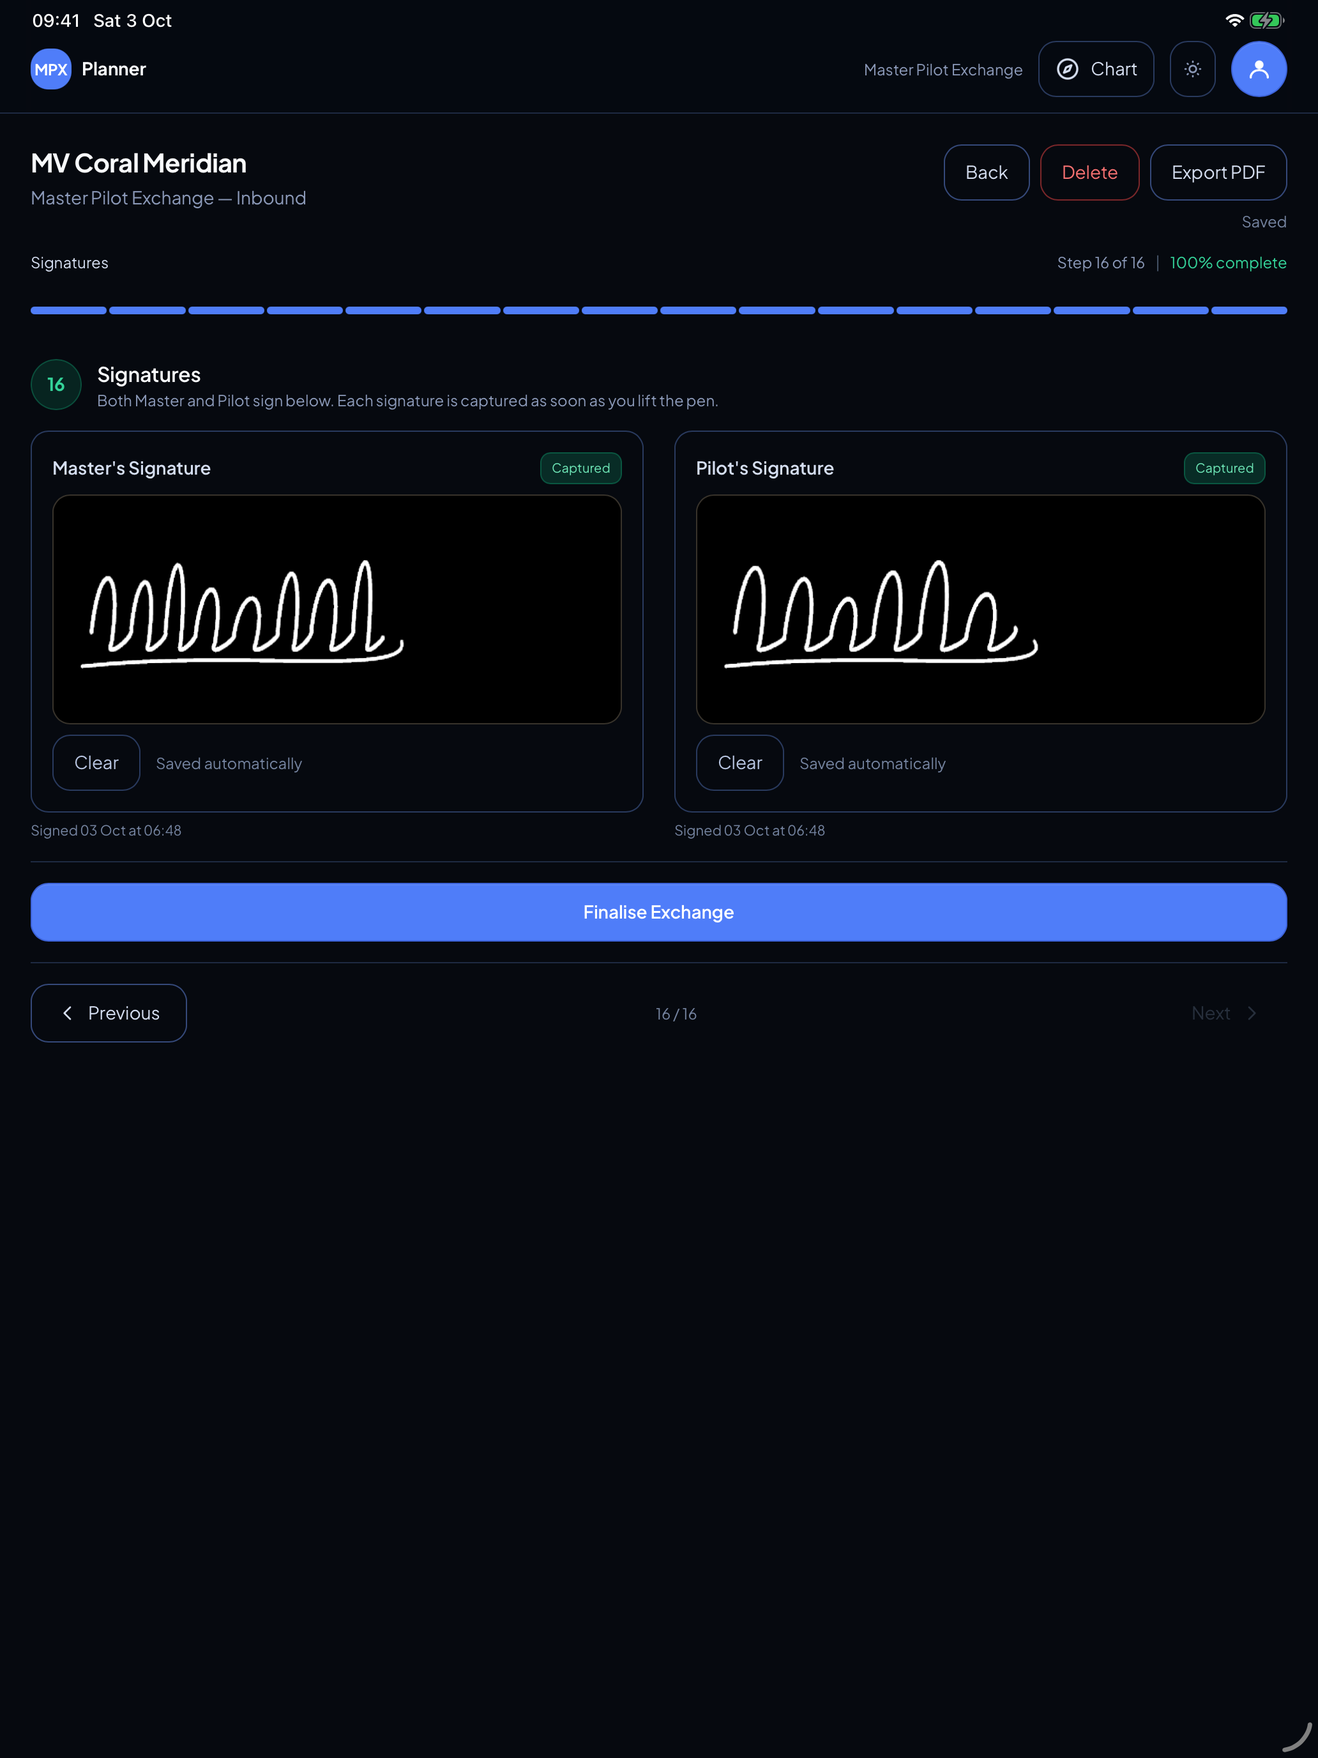
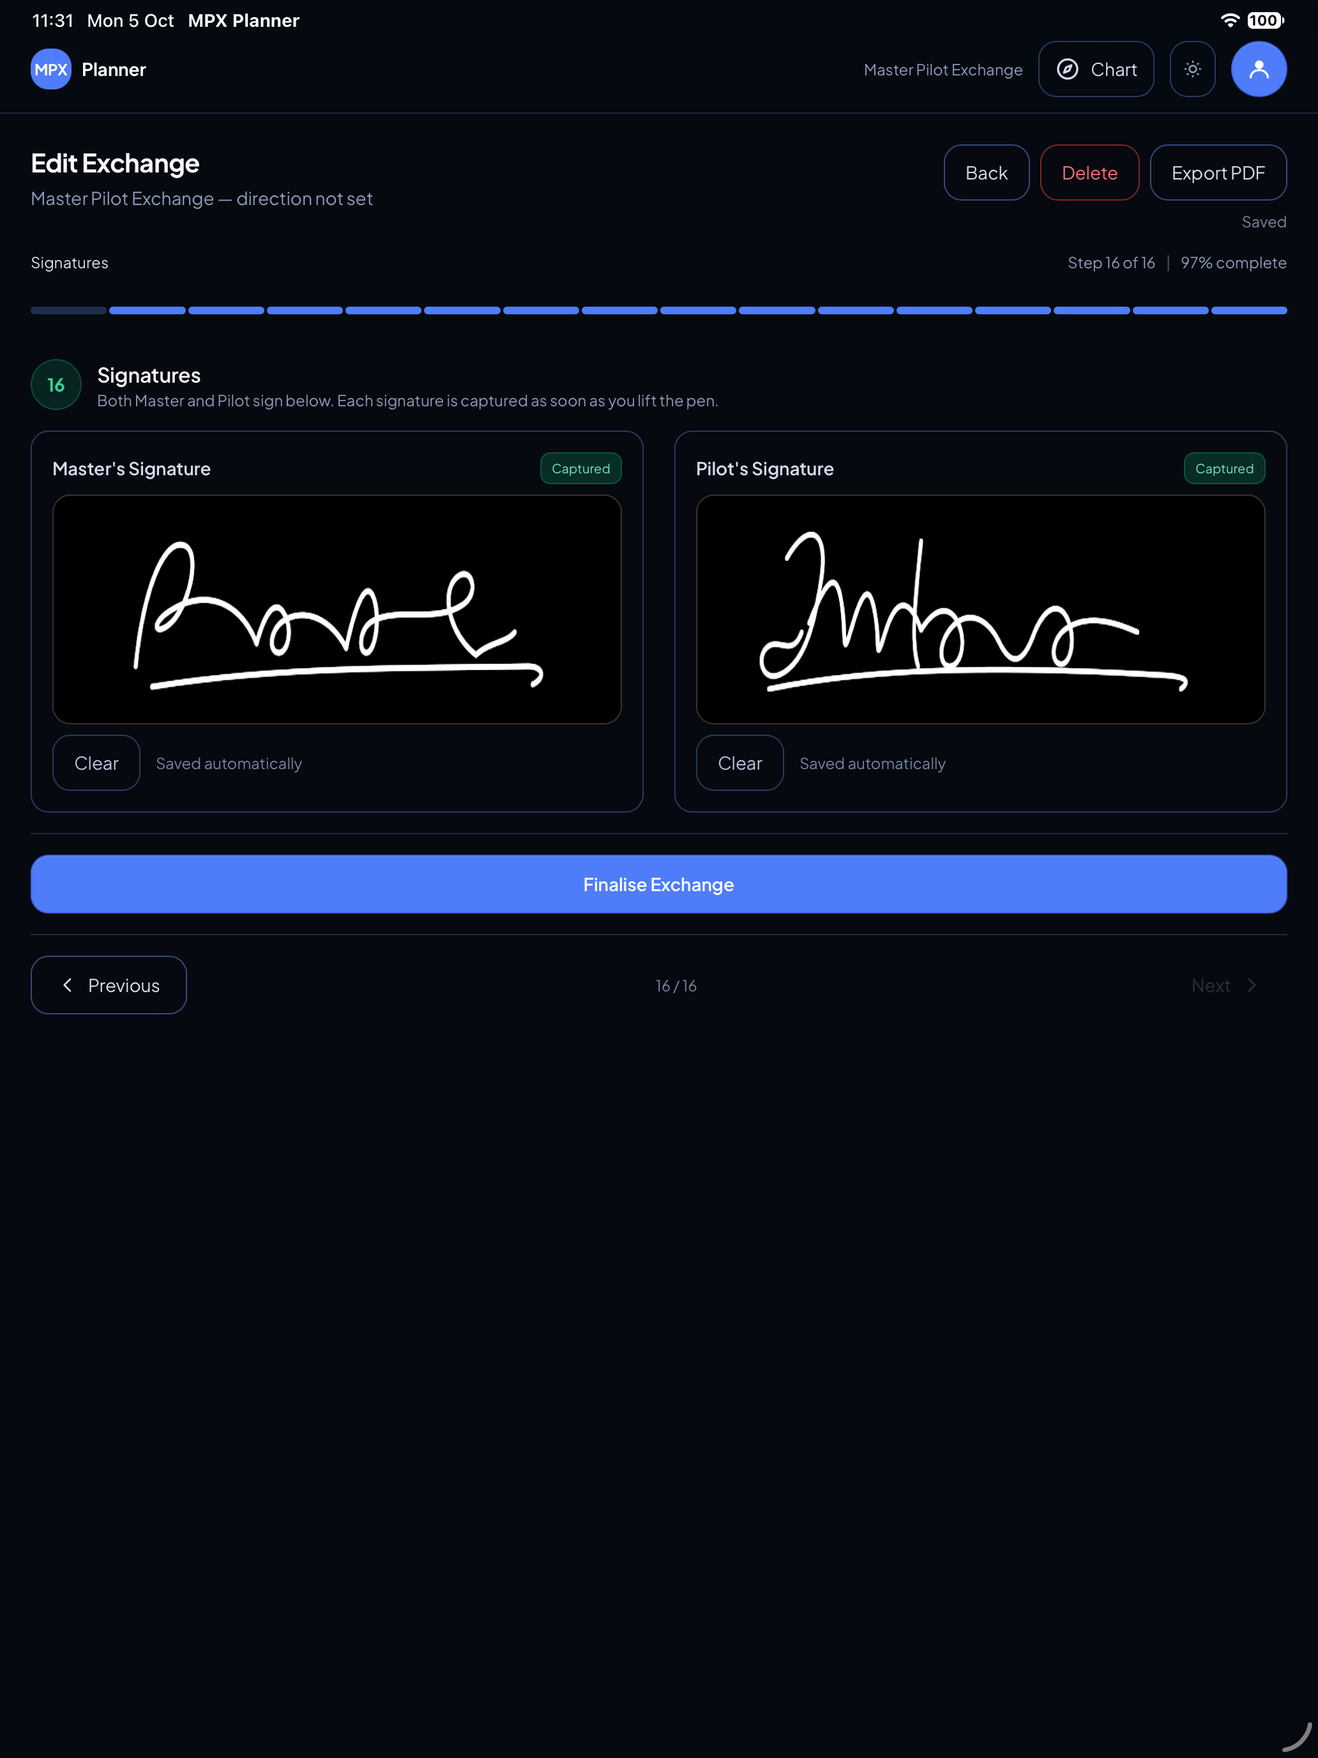
feat: refresh iOS screenshots, show PPU navigation, lead with the difference
- Refresh the five exchange gallery screenshots from a current iOS build,
  with fuller demo data and hand-signed signatures
- Add Passage simulation, Underway log and Docking view to the gallery
- Add a "What's different" section positioning EMPX as one record for the
  whole pilotage job, with a PPU and docking view on the pilot's own iPad
- Remove the pilot-ladder photo and the AI-generated bridge illustration
  from the trial section

diff --git a/dist/index.html b/dist/index.html
@@ -643,6 +643,7 @@
             <aside class="rail" aria-label="Page passage">
                 <div class="rail-inner">
                     <ol>
+                        <li><a href="#difference">What's different</a></li>
                         <li><a href="#exchange">The exchange</a></li>
                         <li><a href="#product">What's shipped</a></li>
                         <li><a href="#organisations">Your organisation</a></li>
@@ -655,6 +656,33 @@
             </aside>
 
             <div class="legs">
+                <!-- ═══════════════ WHAT'S DIFFERENT ═══════════════ -->
+                <section class="leg" id="difference" aria-labelledby="diff-title">
+                    <div class="leg-head">
+                        <h2 id="diff-title">More than an electronic MPX.</h2>
+                        <p class="prose">
+                            Pilotage is an ecosystem, not a form. Boarding, the exchange, the passage,
+                            the chart, the swing and the berth are one continuous job &mdash; so we built EMPX
+                            to carry all of it, and to keep going into the part a checklist app hands off:
+                            the navigation. On the same iPad, EMPX is your pilot portable unit.
+                        </p>
+                    </div>
+                    <div class="yours">
+                        <div>
+                            <h3>One job, one record</h3>
+                            <p>Exchange, passage plan, under-keel clearance, chart and underway log are facets of a single record, not four apps stitched together. What you planned is what you pilot, and what you sign.</p>
+                        </div>
+                        <div>
+                            <h3>A PPU on the iPad in your hand</h3>
+                            <p>Own-ship drawn to scale with a curved predictor, heading, rate of turn, course and speed, cross-track and distance to go &mdash; the pilot portable unit, on the tablet you already carry aboard.</p>
+                        </div>
+                        <div>
+                            <h3>Docking you can trust</h3>
+                            <p>Bow and stern speeds alongside the berth, and every reading says where it came from: measured with a sensor, or clearly marked an estimate. Never a guess dressed up as a fix.</p>
+                        </div>
+                    </div>
+                </section>
+
                 <!-- ═══════════════ THE EXCHANGE ═══════════════ -->
                 <section class="leg" id="exchange" aria-labelledby="exchange-title">
                     <div class="leg-head">
@@ -692,6 +720,18 @@
                             <button class="tab" type="button" role="tab" id="t-sign" aria-controls="p-sign" aria-selected="false" tabindex="-1">
                                 <span class="tab-title">Signed on the glass</span>
                                 <span class="tab-cap">Master and pilot, on the record</span>
+                            </button>
+                            <button class="tab" type="button" role="tab" id="t-sim" aria-controls="p-sim" aria-selected="false" tabindex="-1">
+                                <span class="tab-title">Passage simulation</span>
+                                <span class="tab-cap">The plan, the tugs and the tide, played through</span>
+                            </button>
+                            <button class="tab" type="button" role="tab" id="t-way" aria-controls="p-way" aria-selected="false" tabindex="-1">
+                                <span class="tab-title">Underway log</span>
+                                <span class="tab-cap">The passage logged as it happens</span>
+                            </button>
+                            <button class="tab" type="button" role="tab" id="t-dock" aria-controls="p-dock" aria-selected="false" tabindex="-1">
+                                <span class="tab-title">Docking view</span>
+                                <span class="tab-cap">Bow and stern speeds alongside</span>
                             </button>
                         </div>
 
@@ -743,6 +783,36 @@
                                 </picture></div>
                                 <div class="panel-text">
                                     <p>Master and pilot sign with a finger or Apple Pencil, and the pilot finalises the record once both have signed.</p>
+                                    <p class="demo-note"><span><b>Source</b>iOS build on iPad</span><span><b>Data</b>Demo; vessel, people and organisation are fictional</span></p>
+                                </div>
+                            </div>
+                            <div role="tabpanel" id="p-sim" aria-labelledby="t-sim" tabindex="0" hidden>
+                                <div class="device"><picture>
+                                    <source type="image/webp" srcset="images/ios/passage-sim.webp">
+                                    <img src="images/ios/passage-sim.jpg" width="1100" height="1467" loading="lazy" alt="Passage simulation playing through the Cairns Inbound route, with both tugs on station at the berth and a scrub bar showing time and speed">
+                                </picture></div>
+                                <div class="panel-text">
+                                    <p>Play the passage through before you run it. The ship steams the plan, your tugs take their stations on cue, and the wind and tide are shown as they'll be at the time &mdash; a briefing you can watch, not just read.</p>
+                                    <p class="demo-note"><span><b>Source</b>iOS build on iPad</span><span><b>Data</b>Demo; vessel, people and organisation are fictional</span></p>
+                                </div>
+                            </div>
+                            <div role="tabpanel" id="p-way" aria-labelledby="t-way" tabindex="0" hidden>
+                                <div class="device"><picture>
+                                    <source type="image/webp" srcset="images/ios/underway.webp">
+                                    <img src="images/ios/underway.jpg" width="1100" height="1467" loading="lazy" alt="Underway logbook recording the passage, with key times and events timed and stamped with the position they happened at">
+                                </picture></div>
+                                <div class="panel-text">
+                                    <p>The passage as it happens: position against the plan, and events timed and stamped where they occurred. Moments like the exchange log themselves, and a time correction is marked as amended rather than silently rewritten.</p>
+                                    <p class="demo-note"><span><b>Source</b>iOS build on iPad</span><span><b>Data</b>Demo; vessel, people and organisation are fictional</span></p>
+                                </div>
+                            </div>
+                            <div role="tabpanel" id="p-dock" aria-labelledby="t-dock" tabindex="0" hidden>
+                                <div class="device"><picture>
+                                    <source type="image/webp" srcset="images/ios/docking.webp">
+                                    <img src="images/ios/docking.jpg" width="1100" height="1467" loading="lazy" alt="Docking view on the chart showing bow and stern lateral speeds and the fore-and-aft speed alongside the berth">
+                                </picture></div>
+                                <div class="panel-text">
+                                    <p>Alongside, the bow and stern speeds and the speed ahead, read straight off the chart. Measured with a heading sensor, or clearly marked as estimates when the ship has none &mdash; never a guess passed off as a reading.</p>
                                     <p class="demo-note"><span><b>Source</b>iOS build on iPad</span><span><b>Data</b>Demo; vessel, people and organisation are fictional</span></p>
                                 </div>
                             </div>
@@ -867,23 +937,6 @@
                             providers both. Small on purpose: every trial is set up by hand, and we'd rather support a
                             handful properly than a hundred badly.
                         </p>
-                    </div>
-
-                    <div class="photos">
-                        <figure class="photo">
-                            <picture>
-                                <source type="image/webp" srcset="images/photos/pilot-ladder.webp">
-                                <img src="images/photos/pilot-ladder.jpg" width="696" height="396" loading="lazy" alt="A marine pilot climbing the pilot ladder from the launch up the side of a ship">
-                            </picture>
-                            <figcaption class="demo-note"><span><b>Boarding</b>From the launch, by pilot ladder</span></figcaption>
-                        </figure>
-                        <figure class="photo">
-                            <picture>
-                                <source type="image/webp" srcset="images/photos/bridge-night.webp">
-                                <img src="images/photos/bridge-night.jpg" width="1408" height="768" loading="lazy" alt="Illustration of a darkened ship's bridge at night, with radar, a tablet and a paper chart on the console">
-                            </picture>
-                            <figcaption class="demo-note"><span><b>Bridge at night</b>Illustration, AI-generated; the tablet screen is not the EMPX interface</span></figcaption>
-                        </figure>
                     </div>
 
                     <ol class="steps">

diff --git a/index.html b/index.html
@@ -643,6 +643,7 @@
             <aside class="rail" aria-label="Page passage">
                 <div class="rail-inner">
                     <ol>
+                        <li><a href="#difference">What's different</a></li>
                         <li><a href="#exchange">The exchange</a></li>
                         <li><a href="#product">What's shipped</a></li>
                         <li><a href="#organisations">Your organisation</a></li>
@@ -655,6 +656,33 @@
             </aside>
 
             <div class="legs">
+                <!-- ═══════════════ WHAT'S DIFFERENT ═══════════════ -->
+                <section class="leg" id="difference" aria-labelledby="diff-title">
+                    <div class="leg-head">
+                        <h2 id="diff-title">More than an electronic MPX.</h2>
+                        <p class="prose">
+                            Pilotage is an ecosystem, not a form. Boarding, the exchange, the passage,
+                            the chart, the swing and the berth are one continuous job &mdash; so we built EMPX
+                            to carry all of it, and to keep going into the part a checklist app hands off:
+                            the navigation. On the same iPad, EMPX is your pilot portable unit.
+                        </p>
+                    </div>
+                    <div class="yours">
+                        <div>
+                            <h3>One job, one record</h3>
+                            <p>Exchange, passage plan, under-keel clearance, chart and underway log are facets of a single record, not four apps stitched together. What you planned is what you pilot, and what you sign.</p>
+                        </div>
+                        <div>
+                            <h3>A PPU on the iPad in your hand</h3>
+                            <p>Own-ship drawn to scale with a curved predictor, heading, rate of turn, course and speed, cross-track and distance to go &mdash; the pilot portable unit, on the tablet you already carry aboard.</p>
+                        </div>
+                        <div>
+                            <h3>Docking you can trust</h3>
+                            <p>Bow and stern speeds alongside the berth, and every reading says where it came from: measured with a sensor, or clearly marked an estimate. Never a guess dressed up as a fix.</p>
+                        </div>
+                    </div>
+                </section>
+
                 <!-- ═══════════════ THE EXCHANGE ═══════════════ -->
                 <section class="leg" id="exchange" aria-labelledby="exchange-title">
                     <div class="leg-head">
@@ -692,6 +720,18 @@
                             <button class="tab" type="button" role="tab" id="t-sign" aria-controls="p-sign" aria-selected="false" tabindex="-1">
                                 <span class="tab-title">Signed on the glass</span>
                                 <span class="tab-cap">Master and pilot, on the record</span>
+                            </button>
+                            <button class="tab" type="button" role="tab" id="t-sim" aria-controls="p-sim" aria-selected="false" tabindex="-1">
+                                <span class="tab-title">Passage simulation</span>
+                                <span class="tab-cap">The plan, the tugs and the tide, played through</span>
+                            </button>
+                            <button class="tab" type="button" role="tab" id="t-way" aria-controls="p-way" aria-selected="false" tabindex="-1">
+                                <span class="tab-title">Underway log</span>
+                                <span class="tab-cap">The passage logged as it happens</span>
+                            </button>
+                            <button class="tab" type="button" role="tab" id="t-dock" aria-controls="p-dock" aria-selected="false" tabindex="-1">
+                                <span class="tab-title">Docking view</span>
+                                <span class="tab-cap">Bow and stern speeds alongside</span>
                             </button>
                         </div>
 
@@ -743,6 +783,36 @@
                                 </picture></div>
                                 <div class="panel-text">
                                     <p>Master and pilot sign with a finger or Apple Pencil, and the pilot finalises the record once both have signed.</p>
+                                    <p class="demo-note"><span><b>Source</b>iOS build on iPad</span><span><b>Data</b>Demo; vessel, people and organisation are fictional</span></p>
+                                </div>
+                            </div>
+                            <div role="tabpanel" id="p-sim" aria-labelledby="t-sim" tabindex="0" hidden>
+                                <div class="device"><picture>
+                                    <source type="image/webp" srcset="images/ios/passage-sim.webp">
+                                    <img src="images/ios/passage-sim.jpg" width="1100" height="1467" loading="lazy" alt="Passage simulation playing through the Cairns Inbound route, with both tugs on station at the berth and a scrub bar showing time and speed">
+                                </picture></div>
+                                <div class="panel-text">
+                                    <p>Play the passage through before you run it. The ship steams the plan, your tugs take their stations on cue, and the wind and tide are shown as they'll be at the time &mdash; a briefing you can watch, not just read.</p>
+                                    <p class="demo-note"><span><b>Source</b>iOS build on iPad</span><span><b>Data</b>Demo; vessel, people and organisation are fictional</span></p>
+                                </div>
+                            </div>
+                            <div role="tabpanel" id="p-way" aria-labelledby="t-way" tabindex="0" hidden>
+                                <div class="device"><picture>
+                                    <source type="image/webp" srcset="images/ios/underway.webp">
+                                    <img src="images/ios/underway.jpg" width="1100" height="1467" loading="lazy" alt="Underway logbook recording the passage, with key times and events timed and stamped with the position they happened at">
+                                </picture></div>
+                                <div class="panel-text">
+                                    <p>The passage as it happens: position against the plan, and events timed and stamped where they occurred. Moments like the exchange log themselves, and a time correction is marked as amended rather than silently rewritten.</p>
+                                    <p class="demo-note"><span><b>Source</b>iOS build on iPad</span><span><b>Data</b>Demo; vessel, people and organisation are fictional</span></p>
+                                </div>
+                            </div>
+                            <div role="tabpanel" id="p-dock" aria-labelledby="t-dock" tabindex="0" hidden>
+                                <div class="device"><picture>
+                                    <source type="image/webp" srcset="images/ios/docking.webp">
+                                    <img src="images/ios/docking.jpg" width="1100" height="1467" loading="lazy" alt="Docking view on the chart showing bow and stern lateral speeds and the fore-and-aft speed alongside the berth">
+                                </picture></div>
+                                <div class="panel-text">
+                                    <p>Alongside, the bow and stern speeds and the speed ahead, read straight off the chart. Measured with a heading sensor, or clearly marked as estimates when the ship has none &mdash; never a guess passed off as a reading.</p>
                                     <p class="demo-note"><span><b>Source</b>iOS build on iPad</span><span><b>Data</b>Demo; vessel, people and organisation are fictional</span></p>
                                 </div>
                             </div>
@@ -867,23 +937,6 @@
                             providers both. Small on purpose: every trial is set up by hand, and we'd rather support a
                             handful properly than a hundred badly.
                         </p>
-                    </div>
-
-                    <div class="photos">
-                        <figure class="photo">
-                            <picture>
-                                <source type="image/webp" srcset="images/photos/pilot-ladder.webp">
-                                <img src="images/photos/pilot-ladder.jpg" width="696" height="396" loading="lazy" alt="A marine pilot climbing the pilot ladder from the launch up the side of a ship">
-                            </picture>
-                            <figcaption class="demo-note"><span><b>Boarding</b>From the launch, by pilot ladder</span></figcaption>
-                        </figure>
-                        <figure class="photo">
-                            <picture>
-                                <source type="image/webp" srcset="images/photos/bridge-night.webp">
-                                <img src="images/photos/bridge-night.jpg" width="1408" height="768" loading="lazy" alt="Illustration of a darkened ship's bridge at night, with radar, a tablet and a paper chart on the console">
-                            </picture>
-                            <figcaption class="demo-note"><span><b>Bridge at night</b>Illustration, AI-generated; the tablet screen is not the EMPX interface</span></figcaption>
-                        </figure>
                     </div>
 
                     <ol class="steps">
